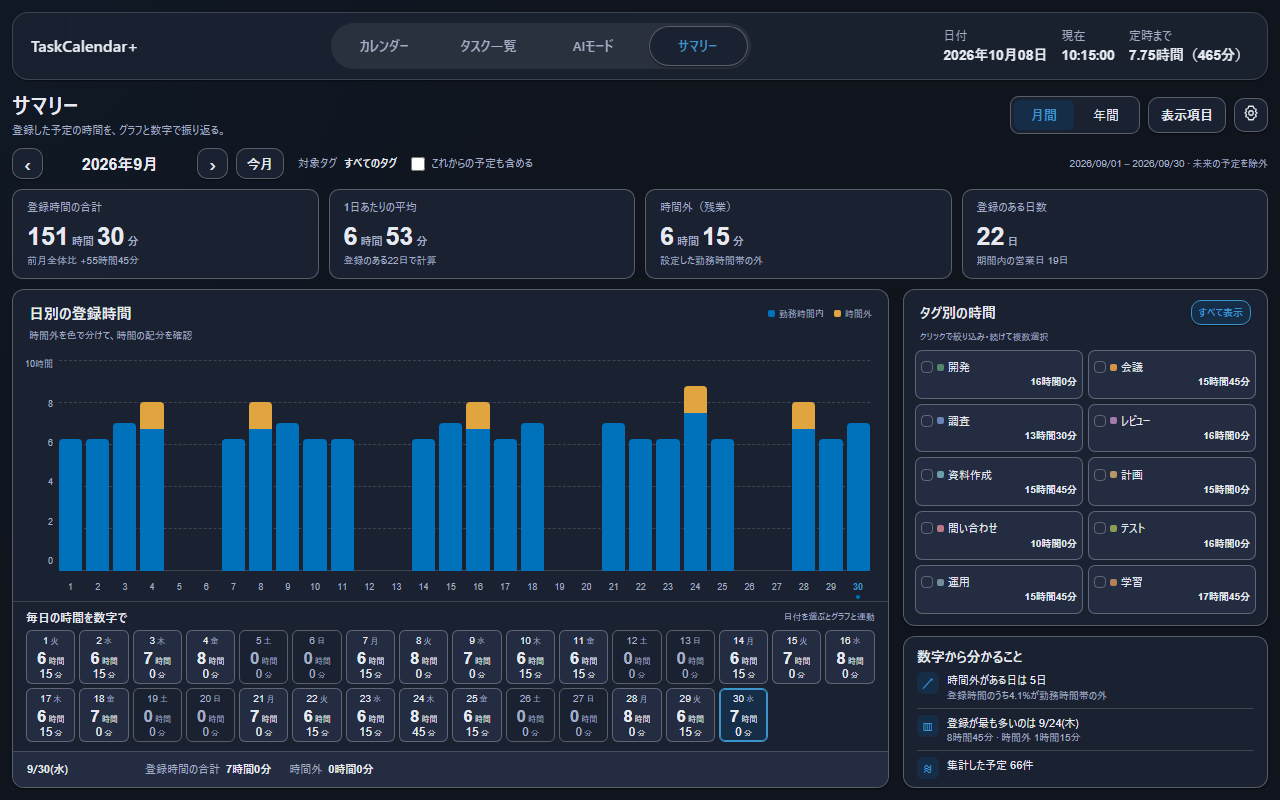
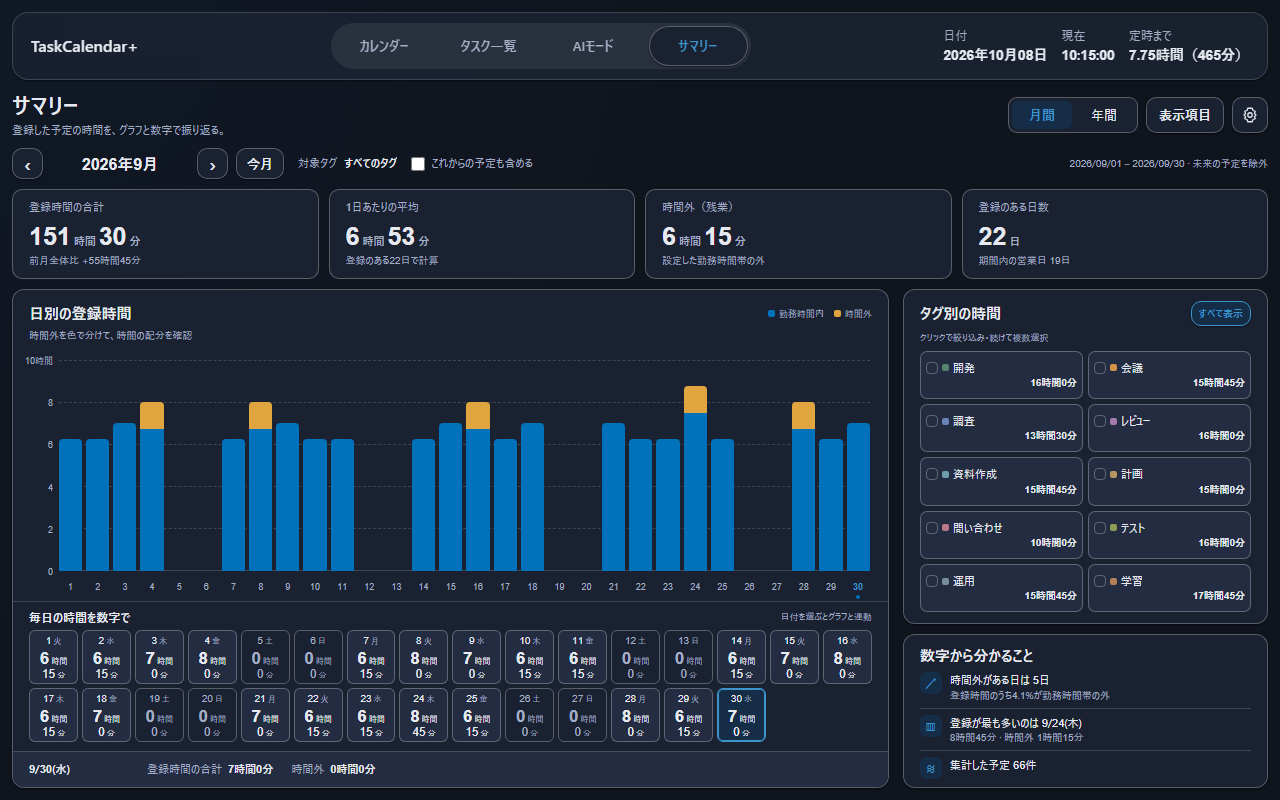
fix: align summary controls, chart ticks and panel spacing

diff --git a/src-tauri/renderer/assets/summary.css b/src-tauri/renderer/assets/summary.css
@@ -4,6 +4,7 @@
   min-height: 0;
   padding-top: 12px;
 }
+.summaryView { --summary-panel-inset: 16px; --summary-control-height: 36px; }
 .summaryView, .summaryView * { box-sizing: border-box; }
 .summaryView [hidden] { display: none !important; }
 .summaryScreen { height: 100%; min-height: 0; display: flex; flex-direction: column; gap: 10px; }
@@ -11,11 +12,11 @@
 .summaryHeading h1 { margin: 0; font-size: 22px; line-height: 1.25; }
 .summaryHeading p { margin: 3px 0 0; color: var(--muted); font-size: 11px; min-height: 16px; line-height: 1.4; }
 .summaryHeadingActions { display: flex; align-items: center; gap: 8px; flex-shrink: 0; }
-.summaryHeadingActions > .btn { white-space: nowrap; min-height: 34px; }
-.summarySettings { width: 34px; padding: 5px !important; }
+.summaryHeadingActions > .btn { display: inline-flex; align-items: center; justify-content: center; white-space: nowrap; height: var(--summary-control-height); min-height: var(--summary-control-height); padding-top: 0; padding-bottom: 0; }
+.summarySettings { width: var(--summary-control-height); padding: 5px !important; }
 .summarySettings svg { width: 18px; height: 18px; fill: none; stroke: currentColor; stroke-width: 1.7; stroke-linejoin: round; }
-.summarySegment { display: flex; gap: 2px; padding: 3px; background: var(--panel); border: 1px solid var(--border-strong); border-radius: 9px; }
-.summarySegment button { border: 0; background: transparent; color: var(--text); padding: 5px 17px; min-height: 29px; border-radius: 6px; font: inherit; cursor: pointer; white-space: nowrap; }
+.summarySegment { display: flex; gap: 2px; height: var(--summary-control-height); padding: 3px; background: var(--panel); border: 1px solid var(--border-strong); border-radius: 9px; }
+.summarySegment button { display: inline-flex; align-items: center; justify-content: center; border: 0; background: transparent; color: var(--text); padding: 0 17px; min-height: 0; border-radius: 6px; font: inherit; cursor: pointer; white-space: nowrap; }
 .summarySegment button[aria-pressed="true"] { color: var(--accent-strong); background: var(--accent-soft); font-weight: 700; }
 .summaryFilters { display: flex; align-items: center; gap: 14px; flex-shrink: 0; min-width: 0; }
 .summaryPeriodNav { display: flex; align-items: center; gap: 8px; flex-shrink: 0; }
@@ -28,8 +29,8 @@
 .summaryFuture { display: flex; align-items: center; gap: 6px; white-space: nowrap; font-size: 11px; color: var(--muted); cursor: pointer; }
 .summaryView input[type="checkbox"] { width: 14px; height: 14px; accent-color: var(--accent); margin: 0; flex-shrink: 0; }
 .summaryRange { color: var(--muted); font-size: 10px; margin-left: auto; white-space: nowrap; }
-.summaryMetrics { display: grid; grid-template-columns: repeat(4,minmax(0,1fr)); gap: 10px; flex-shrink: 0; }
-.summaryMetric { background: var(--panel); border: 1px solid var(--border-strong); border-radius: 10px; padding: 10px 14px; min-width: 0; }
+.summaryMetrics { display: grid; grid-auto-flow: column; grid-auto-columns: minmax(0,1fr); gap: 10px; flex-shrink: 0; }
+.summaryMetric { background: var(--panel); border: 1px solid var(--border-strong); border-radius: 10px; padding: 10px var(--summary-panel-inset); min-width: 0; }
 .summaryMetricLabel { font-size: 11px; color: var(--muted); line-height: 1.35; }
 .summaryMetricValue { margin-top: 4px; font-size: 25px; font-weight: 700; line-height: 1.25; white-space: nowrap; font-variant-numeric: tabular-nums; }
 .summaryMetricValue small { font-size: 11px; font-weight: 500; color: var(--muted); margin: 0 3px; }
@@ -37,7 +38,7 @@
 .summaryMetricDetail em { color: var(--accent-strong); font-style: normal; }
 .summaryContent { display: grid; grid-template-columns: minmax(0,2.4fr) minmax(290px,1fr); gap: 14px; flex: 1; min-height: 0; }
 .summaryPanel { background: var(--panel); border: 1px solid var(--border-strong); border-radius: 12px; min-width: 0; box-shadow: var(--shadow-sm); }
-.summaryPanelHeading { display: flex; justify-content: space-between; align-items: flex-start; gap: 12px; padding: 13px 16px 3px; flex-shrink: 0; }
+.summaryPanelHeading { display: flex; justify-content: space-between; align-items: flex-start; gap: 12px; padding: 13px var(--summary-panel-inset) 3px; flex-shrink: 0; }
 .summaryPanelHeading h2, .summaryInsights h2 { margin: 0; font-size: 15px; line-height: 1.4; }
 .summaryPanelHeading p { color: var(--muted); font-size: 10px; margin: 4px 0 0; }
 .summaryTrend { display: flex; flex-direction: column; min-height: 0; }
@@ -46,7 +47,8 @@
 .summaryLegend b { overflow: hidden; text-overflow: ellipsis; white-space: nowrap; font-weight: 400; }
 .summaryLegend i { display: inline-block; width: 7px; height: 7px; border-radius: 2px; flex-shrink: 0; }
 .summaryChart { flex: 1; min-height: 85px; position: relative; padding: 14px 18px 0 16px; }
-.summaryAxis { position: absolute; left: 4px; top: 11px; bottom: 33px; width: 36px; display: flex; flex-direction: column; justify-content: space-between; text-align: right; white-space: nowrap; font-size: 9px; color: var(--muted); }
+.summaryAxis { position: absolute; left: 4px; top: 14px; bottom: 30px; width: 36px; text-align: right; white-space: nowrap; font-size: 9px; line-height: 1; color: var(--muted); }
+.summaryAxis > span { position: absolute; right: 0; transform: translateY(-50%); }
 .summaryPlot { height: 100%; margin-left: 30px; padding-bottom: 30px; position: relative; }
 .summaryGridlines { position: absolute; inset: 0 0 30px; display: flex; flex-direction: column; justify-content: space-between; pointer-events: none; }
 .summaryGridlines i { width: 100%; border-top: 1px dashed var(--border); }
@@ -64,7 +66,7 @@
 .summaryBar:disabled .summaryBarLabel { opacity: .6; }
 .summaryEmpty { position: absolute; inset: 16px 25px 38px 48px; background: var(--panel); display: flex; flex-direction: column; align-items: center; justify-content: center; gap: 4px; text-align: center; color: var(--muted); font-size: 11px; pointer-events: none; }
 .summaryEmpty strong { color: var(--text); font-size: 13px; }
-.summaryNumbers { padding: 8px 13px 9px; border-top: 1px solid var(--border); flex-shrink: 0; }
+.summaryNumbers { padding: 8px var(--summary-panel-inset) 9px; border-top: 1px solid var(--border); flex-shrink: 0; }
 .summaryNumbersHeading { display: flex; justify-content: space-between; align-items: center; gap: 8px; margin-bottom: 6px; }
 .summaryNumbersHeading h3 { font-size: 12px; margin: 0; line-height: 1.2; }
 .summaryNumbersHeading > span { font-size: 9px; color: var(--muted); }
@@ -81,18 +83,17 @@
 .summaryDay.no-time { color: var(--muted); background: transparent; }
 .summaryDay:disabled { cursor: default; color: var(--muted); }
 .summaryDay.today .summaryDayLabel { color: var(--accent-strong); font-weight: 700; }
-.summarySelected { display: flex; align-items: center; gap: 18px; min-height: 36px; padding: 8px 14px; background: var(--panel2); border-top: 1px solid var(--border); border-radius: 0 0 12px 12px; font-size: 11px; flex-shrink: 0; }
+.summarySelected { display: flex; align-items: center; gap: 18px; min-height: 36px; padding: 8px var(--summary-panel-inset); background: var(--panel2); border-top: 1px solid var(--border); border-radius: 0 0 12px 12px; font-size: 11px; flex-shrink: 0; }
 .summarySelected > strong { min-width: 100px; }
 .summarySelected > span { color: var(--muted); }
 .summarySelected b { color: var(--text); margin-left: 6px; font-weight: 600; }
 .summarySide { display: flex; flex-direction: column; min-width: 0; min-height: 0; gap: 10px; }
 .summaryTags { display: flex; flex-direction: column; flex: 1; min-height: 0; }
-.summaryTags .summaryPanelHeading { align-items: center; padding-top: 10px; }
-.summaryTags .summaryPanelHeading h2 { font-size: 14px; }
+.summaryTags .summaryPanelHeading { align-items: center; padding-top: 11px; }
 .summaryTags [data-summary-all-tags] { font-size: 10px; min-height: 25px; padding: 3px 7px; white-space: nowrap; }
 .summaryTags [data-summary-all-tags][aria-pressed="true"] { color: var(--accent-strong); background: var(--accent-soft); border-color: var(--accent-strong); }
-.summaryTagsHint { margin: 3px 16px 0; color: var(--muted); font-size: 9px; line-height: 1.3; }
-.summaryTagList { display: flex; flex-direction: column; justify-content: space-evenly; gap: 4px; padding: 7px 11px 11px; flex: 1; min-height: 0; }
+.summaryTagsHint { margin: 3px var(--summary-panel-inset) 0; color: var(--muted); font-size: 9px; line-height: 1.3; }
+.summaryTagList { display: flex; flex-direction: column; justify-content: space-evenly; gap: 4px; padding: 7px var(--summary-panel-inset) 11px; flex: 1; min-height: 0; }
 .summaryTag { display: grid; grid-template-columns: minmax(0,1fr) auto; gap: 3px 7px; text-align: left; min-height: 0; padding: 5px 7px; background: transparent; border: 1px solid transparent; border-radius: 7px; font: inherit; color: var(--text); cursor: pointer; }
 .summaryTagHead { grid-column: 1 / -1; display: flex; align-items: center; gap: 5px; min-width: 0; font-size: 11px; line-height: 1.25; }
 .summaryTagHead strong { margin-left: auto; font-size: 10px; white-space: nowrap; }
@@ -114,8 +115,7 @@
 .summaryTagPager { display: flex; align-items: center; justify-content: center; gap: 10px; padding: 0 10px 7px; font-size: 10px; flex-shrink: 0; }
 .summaryTagPager .btn { min-height: 22px; padding: 0 9px; }
 .summaryNoTags { color: var(--muted); font-size: 12px; margin: auto; }
-.summaryInsights { flex-shrink: 0; padding: 10px 13px 8px; }
-.summaryInsights h2 { font-size: 14px; }
+.summaryInsights { flex-shrink: 0; padding: 10px var(--summary-panel-inset) 8px; }
 .summaryInsight { display: flex; align-items: flex-start; gap: 8px; padding: 6px 0; border-bottom: 1px solid var(--border); }
 .summaryInsight:last-child { border-bottom: 0; padding-bottom: 0; }
 .summaryInsightIcon { background: var(--accent-soft); color: var(--accent-strong); border-radius: 6px; width: 22px; height: 22px; flex-shrink: 0; display: grid; place-items: center; font-size: 12px; }

diff --git a/src-tauri/renderer/src/summary-renderer.js b/src-tauri/renderer/src/summary-renderer.js
@@ -64,7 +64,7 @@ function renderChart(root, model) {
   query(root, 'legend').innerHTML = legend.join('');
   const unit = monthly ? 120 : 1200;
   const scale = Math.max(unit * 5, Math.ceil(Math.max(...model.groups.map(group => group.total), 0) / (unit * 5)) * unit * 5);
-  query(root, 'axis').innerHTML = [5,4,3,2,1,0].map(index => `<span>${number(scale / 60 * index / 5)}${index === 5 ? escHtml(t('summary.hours')) : ''}</span>`).join('');
+  query(root, 'axis').innerHTML = [5,4,3,2,1,0].map(index => `<span style="top:${(5 - index) * 20}%">${number(scale / 60 * index / 5)}${index === 5 ? escHtml(t('summary.hours')) : ''}</span>`).join('');
   query(root, 'bars').style.setProperty('--summary-columns', model.groups.length);
   query(root, 'bars').innerHTML = model.groups.map(group => {
     const label = monthly ? number(Number(group.key.slice(8))) : dateText(group.key,{month:'short'});

diff --git a/docs/reviews/summary-screen.md b/docs/reviews/summary-screen.md
@@ -39,24 +39,43 @@
 |---|---|
 | ![年間のグラフと月ごとの数字](../images/summary-preview/year.png) | ![ダークテーマ](../images/summary-preview/month-dark.png) |
 
+## 整列の再確認と修正（2026-10-23）
+
+初回の検証は画面内への収まりと操作の確認に偏り、細部の整列を十分に確認できていなかった。指摘後、部品の位置関係を計測して次を修正した。
+
+| 箇所 | 修正前 | 修正後 |
+|---|---|---|
+| グラフの目盛りと横線 | 文字枠の中心と線の中心が最大9.25pxずれていた | 同じ描画範囲に配置し、ずれは0.5px以内 |
+| 右上の操作部 | 高さが37.5px・約35.55px・34pxとばらばら | 36pxに統一し、上端と下端を揃えた |
+| パネル内の左端 | 見出し・日別の数字・下部の詳細で最大3pxのずれ | 同じ16pxの内側余白を共有 |
+| 表示項目が1〜3個のとき | 4列固定で右側に空白が残る | 選んだ項目数で行全体を等分 |
+
+1280×800の同じ架空データでの比較。グラフと数字の同時表示・複数タグ・10タグの2列配置は維持している。
+
+| 修正前 | 修正後 |
+|---|---|
+| ![整列修正前](../images/summary-preview/before-alignment.png) | ![整列修正後](../images/summary-preview/month-10-tags.png) |
+
+位置関係を確認する `test-summary-alignment.mjs` を追加した。月間／年間、1280×800／1366×768、ドイツ語・ダークテーマ、表示項目1〜4個を確認する。前回と同様、インストール版の操作確認は行っていない。
+
 ## 検証
 
 ローカルの隔離環境で次を確認した。詳細な実行結果・ソース識別値・画像識別値は [evidence.json](summary-screen-evidence.json) に保存する。
 
 | チェック | 結果 |
 |---|---|
-| Node | 45スイート合格 |
+| Node | 46スイート合格 |
 | Rust | 231合格、ライブ接続用9件は未実行 |
 | JavaScript構文 | 58ファイル合格 |
 | Clippy | 警告をエラーとして扱い合格 |
 
-全48コマンドが成功。実行中にソース・テストが変化していないことも確認した。
+整列修正後の全49コマンドが成功。実行中にソース・テストが変化していないことも確認した。
 
 - 集計：空データ、休憩、重複、時間外、深夜・月・年またぎ、閏日、祝日・会社休日、未来除外、比較期間、入力を変更しないこと。
 - 画面：グラフと数字の同時表示、対象サイズでの収まり、単独・複数タグ、年間から月間への移動、10タグ超のページ切り替え、キーボード操作、長いタグ名とHTML文字列。
 - 状態：予定の追加・編集・削除、設定変更、選択タグの削除、保存・再取得失敗と再試行、設定の再読み込み、空の表示。
 - 表示：9言語、明暗テーマ、翻訳された読み上げラベル。年間の時間軸ラベルの折り返しも修正して再確認した。
-- 独立コードレビューを1回実施。翻訳キーと読み上げラベルの指摘を修正し、回帰検証を行った。
+- 初回実装では独立コードレビューを1回実施。翻訳キーと読み上げラベルの指摘を修正し、回帰検証を行った。今回の整列修正は実装担当が画像と位置計測で確認した。
 
 実Windowsアプリの起動・インストール、実ユーザーデータ、実Outlook、実AIは未検証。ライブ接続を必要とするRustテスト9件は意図的に除外した。GitHub CIの状態はPRで別に確認する。
 
@@ -66,6 +85,7 @@
 node scripts/test-summary-model.mjs
 node scripts/test-summary-preferences.mjs
 node scripts/test-summary-ui.mjs
+node scripts/test-summary-alignment.mjs
 node scripts/capture-summary-preview.mjs out/summary-preview
 node scripts/refactor-20261008-checks.mjs . out/summary-checks all
 ```

diff --git a/CHANGELOG.md b/CHANGELOG.md
@@ -6,6 +6,7 @@
 - グラフと日別・月別の時間・分を同時表示。タグの単独・複数選択で絞り込み、10タグは2列で表示。
 - 表示項目と平均の計算基準を選択可能に。登録時間・時間外・日数などを勤務・休憩・休日設定から集計。
 - 登録データから計算する要約、予定・タグ・設定変更への追従、9言語と明暗テーマに対応。
+- サマリーの目盛り・操作部・余白の位置を揃え、表示項目が1〜3個の場合も行全体を使う配置に調整。
 - バージョン番号・配布物・アプリ内更新配信は変更しない。
 
 ## [3.0.4] - 2026-10-22
